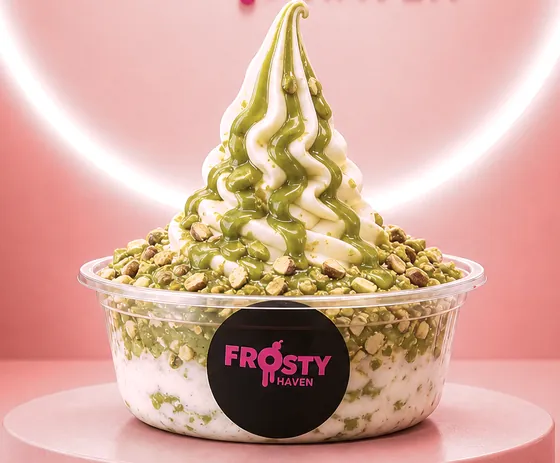
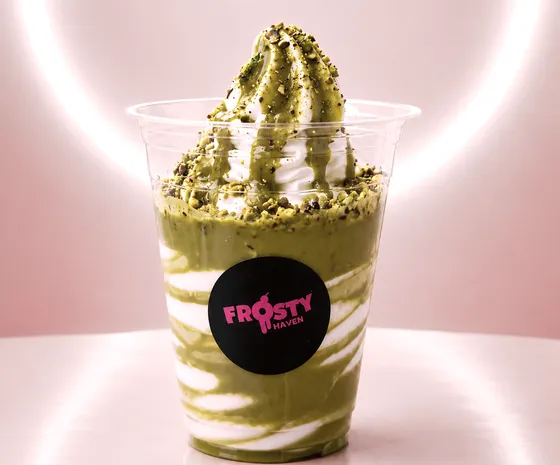
Use the new pistachio cup shot for the Pista Flurr
Both the tile and the Signature 02 plate are cut from one source, so
replacing the photograph updates the spread, the teaser tile and the
Specials tile on the menu page together, which keeps one product looking
like one product.

The new shot is a tall cup where the old one was a wide bowl, so the crop
keeps the full frame width and only trims above the swirl and below the
base -- closing in horizontally to fill the frame would cut the cup off at
the bottom. That makes the plate 1.21:1, near enough the ratio it already
had, so the spread's proportions are unchanged; the width and height
attributes follow the new source.

diff --git a/index.html b/index.html
@@ -180,7 +180,7 @@
       <img src="images/ed-p-pista-840.webp"
            srcset="images/ed-p-pista-560.webp 560w, images/ed-p-pista-840.webp 840w, images/ed-p-pista-1200.webp 1200w"
            sizes="(max-width: 820px) 108vw, 66vw"
-           width="799" height="661" loading="lazy" decoding="async"
+           width="1200" height="996" loading="lazy" decoding="async"
            alt="The Pista Flurr — soft serve swirled with pistachio sauce and showered in crushed pistachio">
     </div>
     <div class="prod__body">
